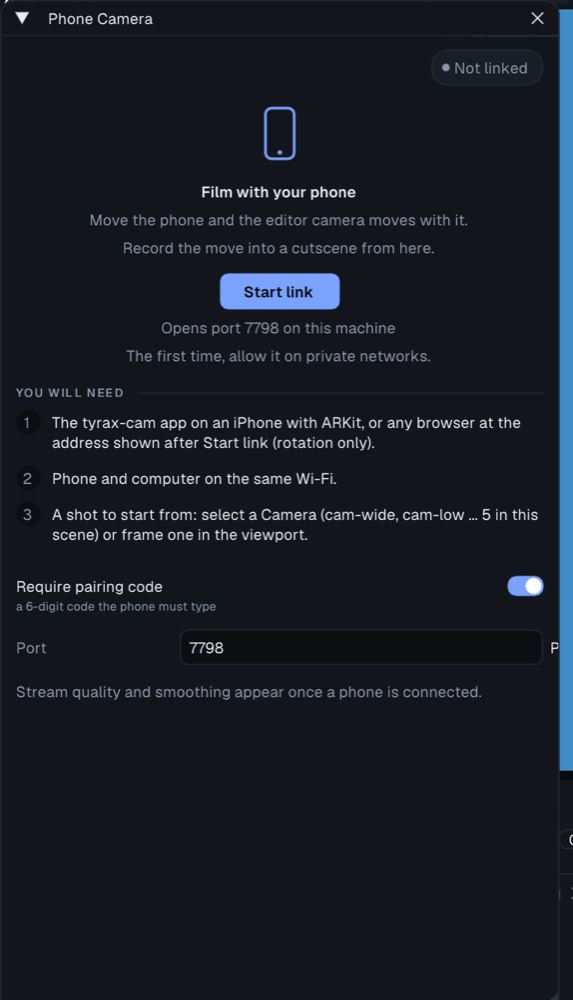
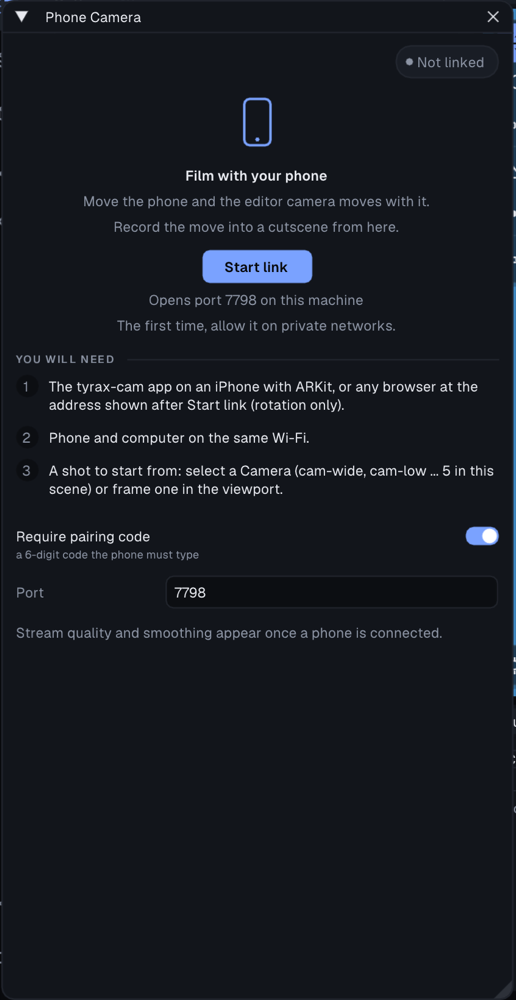
Phone Camera: no stray "P" past the window's edge
Divergence (PhoneCamera-Connect artboard): the unlinked window's Port
field fills its row, so InputInt drew its own "Port" label past the
window's right edge - a lone "P" over whatever panel sits next to it
(visible in docs/img/phone-camera.png too).

Fix: the field is drawn inside a clip rect of its row. The label (and so
the widget's ID / --ui-script name "Port") is unchanged.

Verified: --ui-script on a copy of examples/cutscene-demo, window undocked
420x820, shot compared with the artboard (live state needs a phone - not
checked). docs/img/phone-camera.png retaken.

diff --git a/src/cutscene_ui.cpp b/src/cutscene_ui.cpp
@@ -720,9 +720,19 @@ void App::drawPhoneCamWindow() {
         ImGui::TextDisabled("Port");
         ImGui::SameLine(ImClamp(ImGui::GetContentRegionAvail().x * 0.34f, scaled(80.0f), scaled(140.0f)));
         ImGui::SetNextItemWidth(-FLT_MIN);
-        if (ImGui::InputInt("Port", &phoneCamPort_, 0, 0)) {
-            phoneCamPort_ = std::clamp(phoneCamPort_, 1024, 65535);
-            saveGlobalConfig();
+        {
+            // The field fills the row, so its own "Port" label would land past
+            // the window's edge (a stray "P" over the panel next to it): clip
+            // it to the row. The label stays the widget's ID.
+            const ImVec2 c = ImGui::GetCursorScreenPos();
+            ImGui::PushClipRect(ImVec2(c.x, c.y - 2.0f),
+                                ImVec2(c.x + ImGui::GetContentRegionAvail().x, c.y + ImGui::GetFrameHeight() + 2.0f),
+                                true);
+            if (ImGui::InputInt("Port", &phoneCamPort_, 0, 0)) {
+                phoneCamPort_ = std::clamp(phoneCamPort_, 1024, 65535);
+                saveGlobalConfig();
+            }
+            ImGui::PopClipRect();
         }
         ImGui::Spacing();
         ImGui::TextDisabled("Stream quality and smoothing appear once a phone is connected.");
